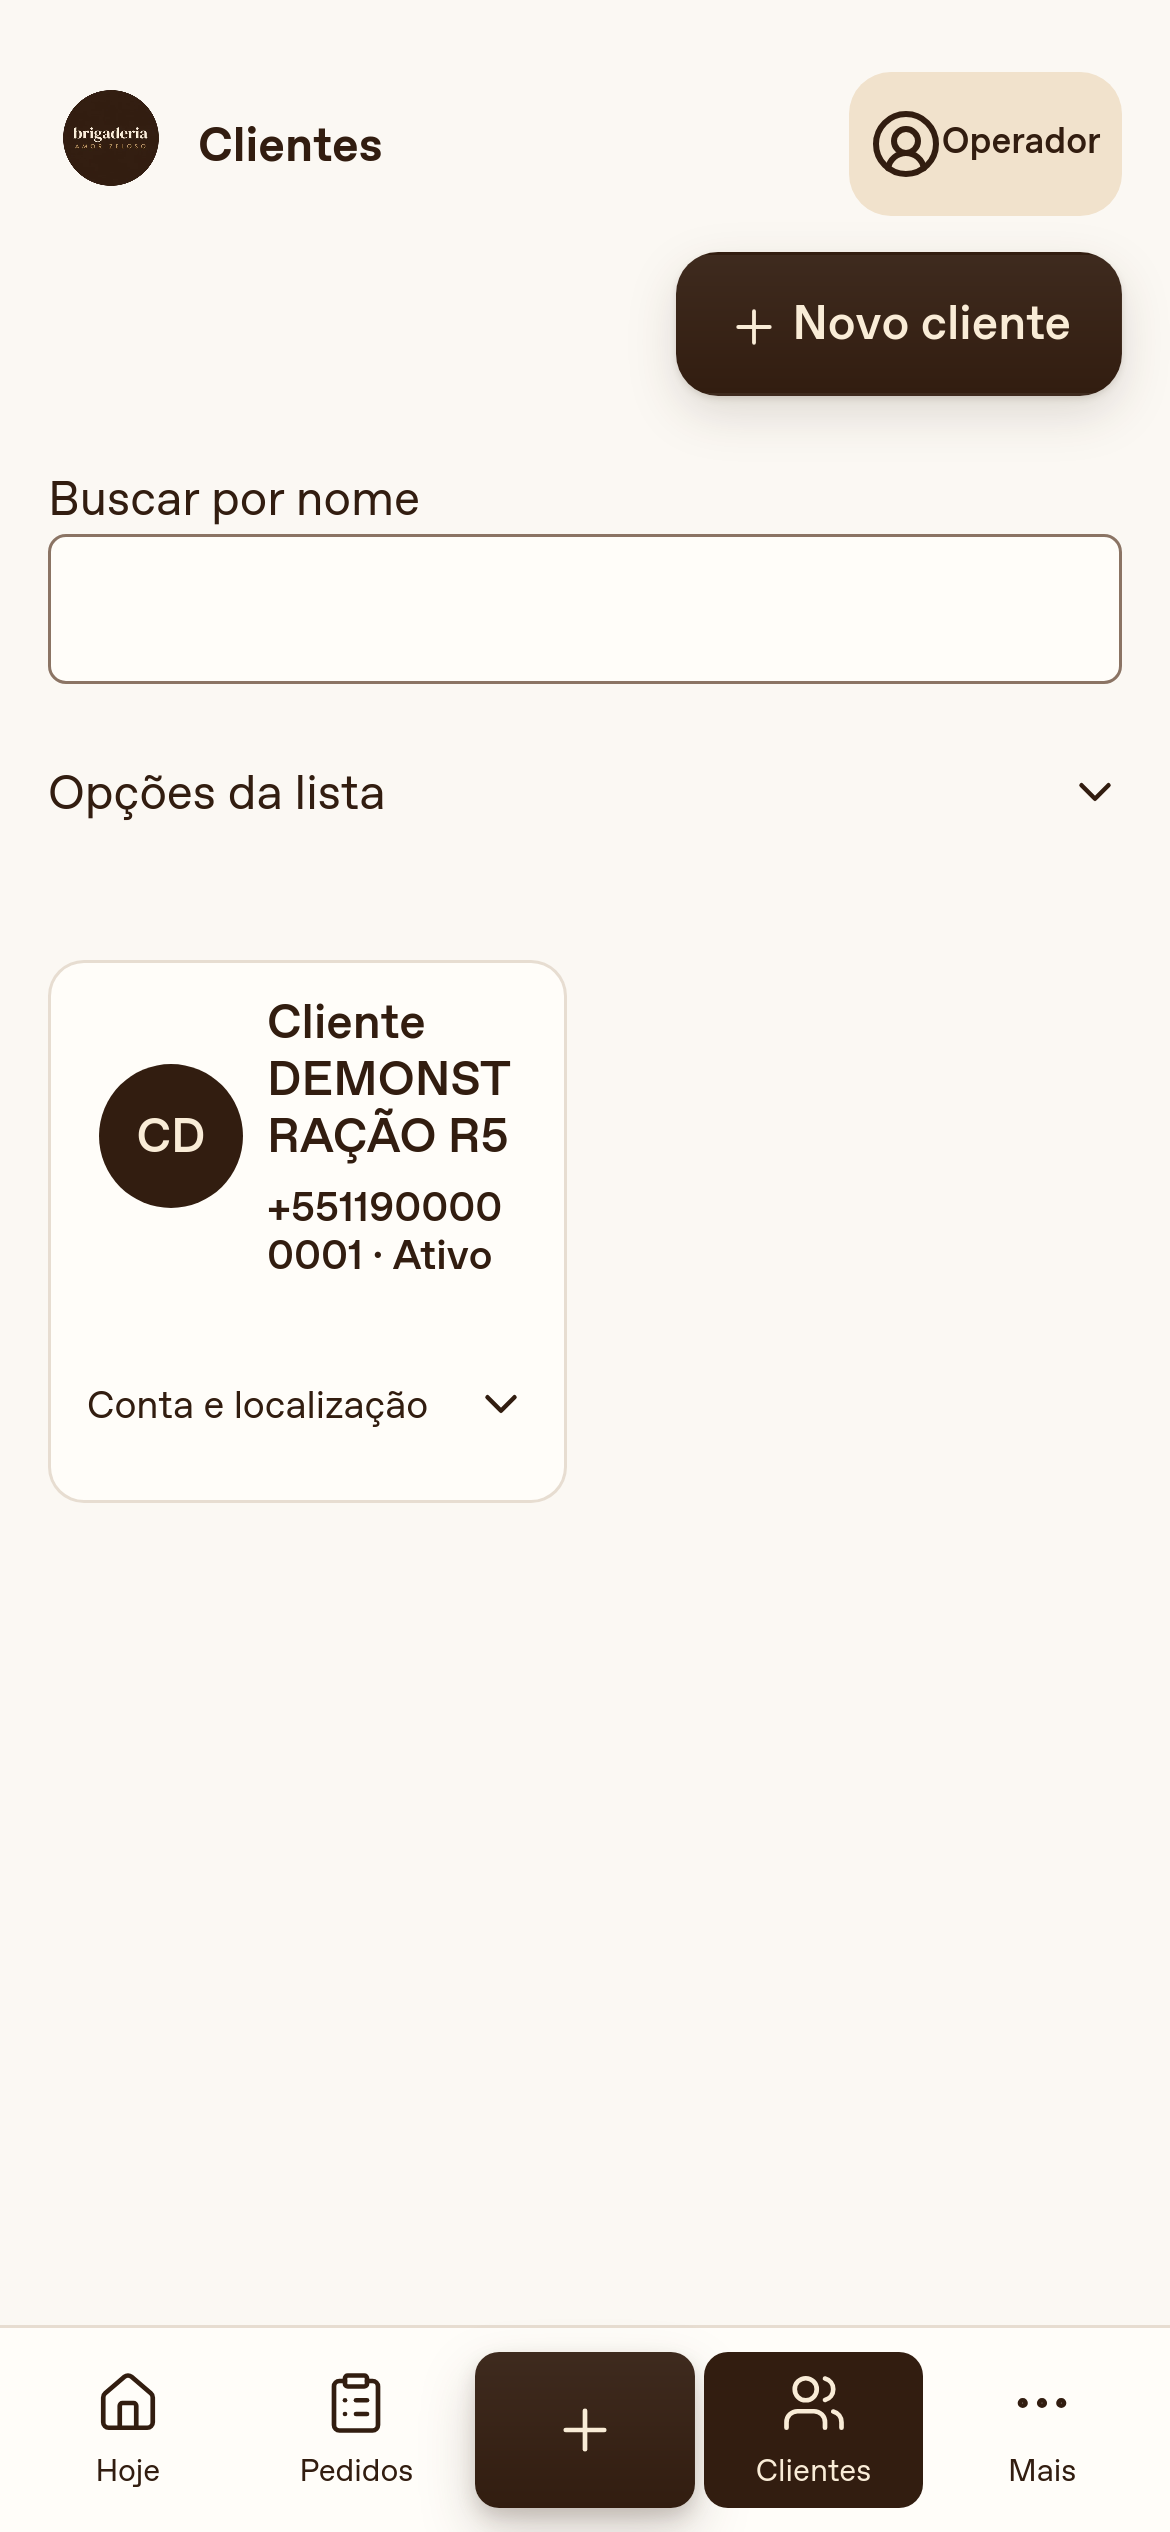
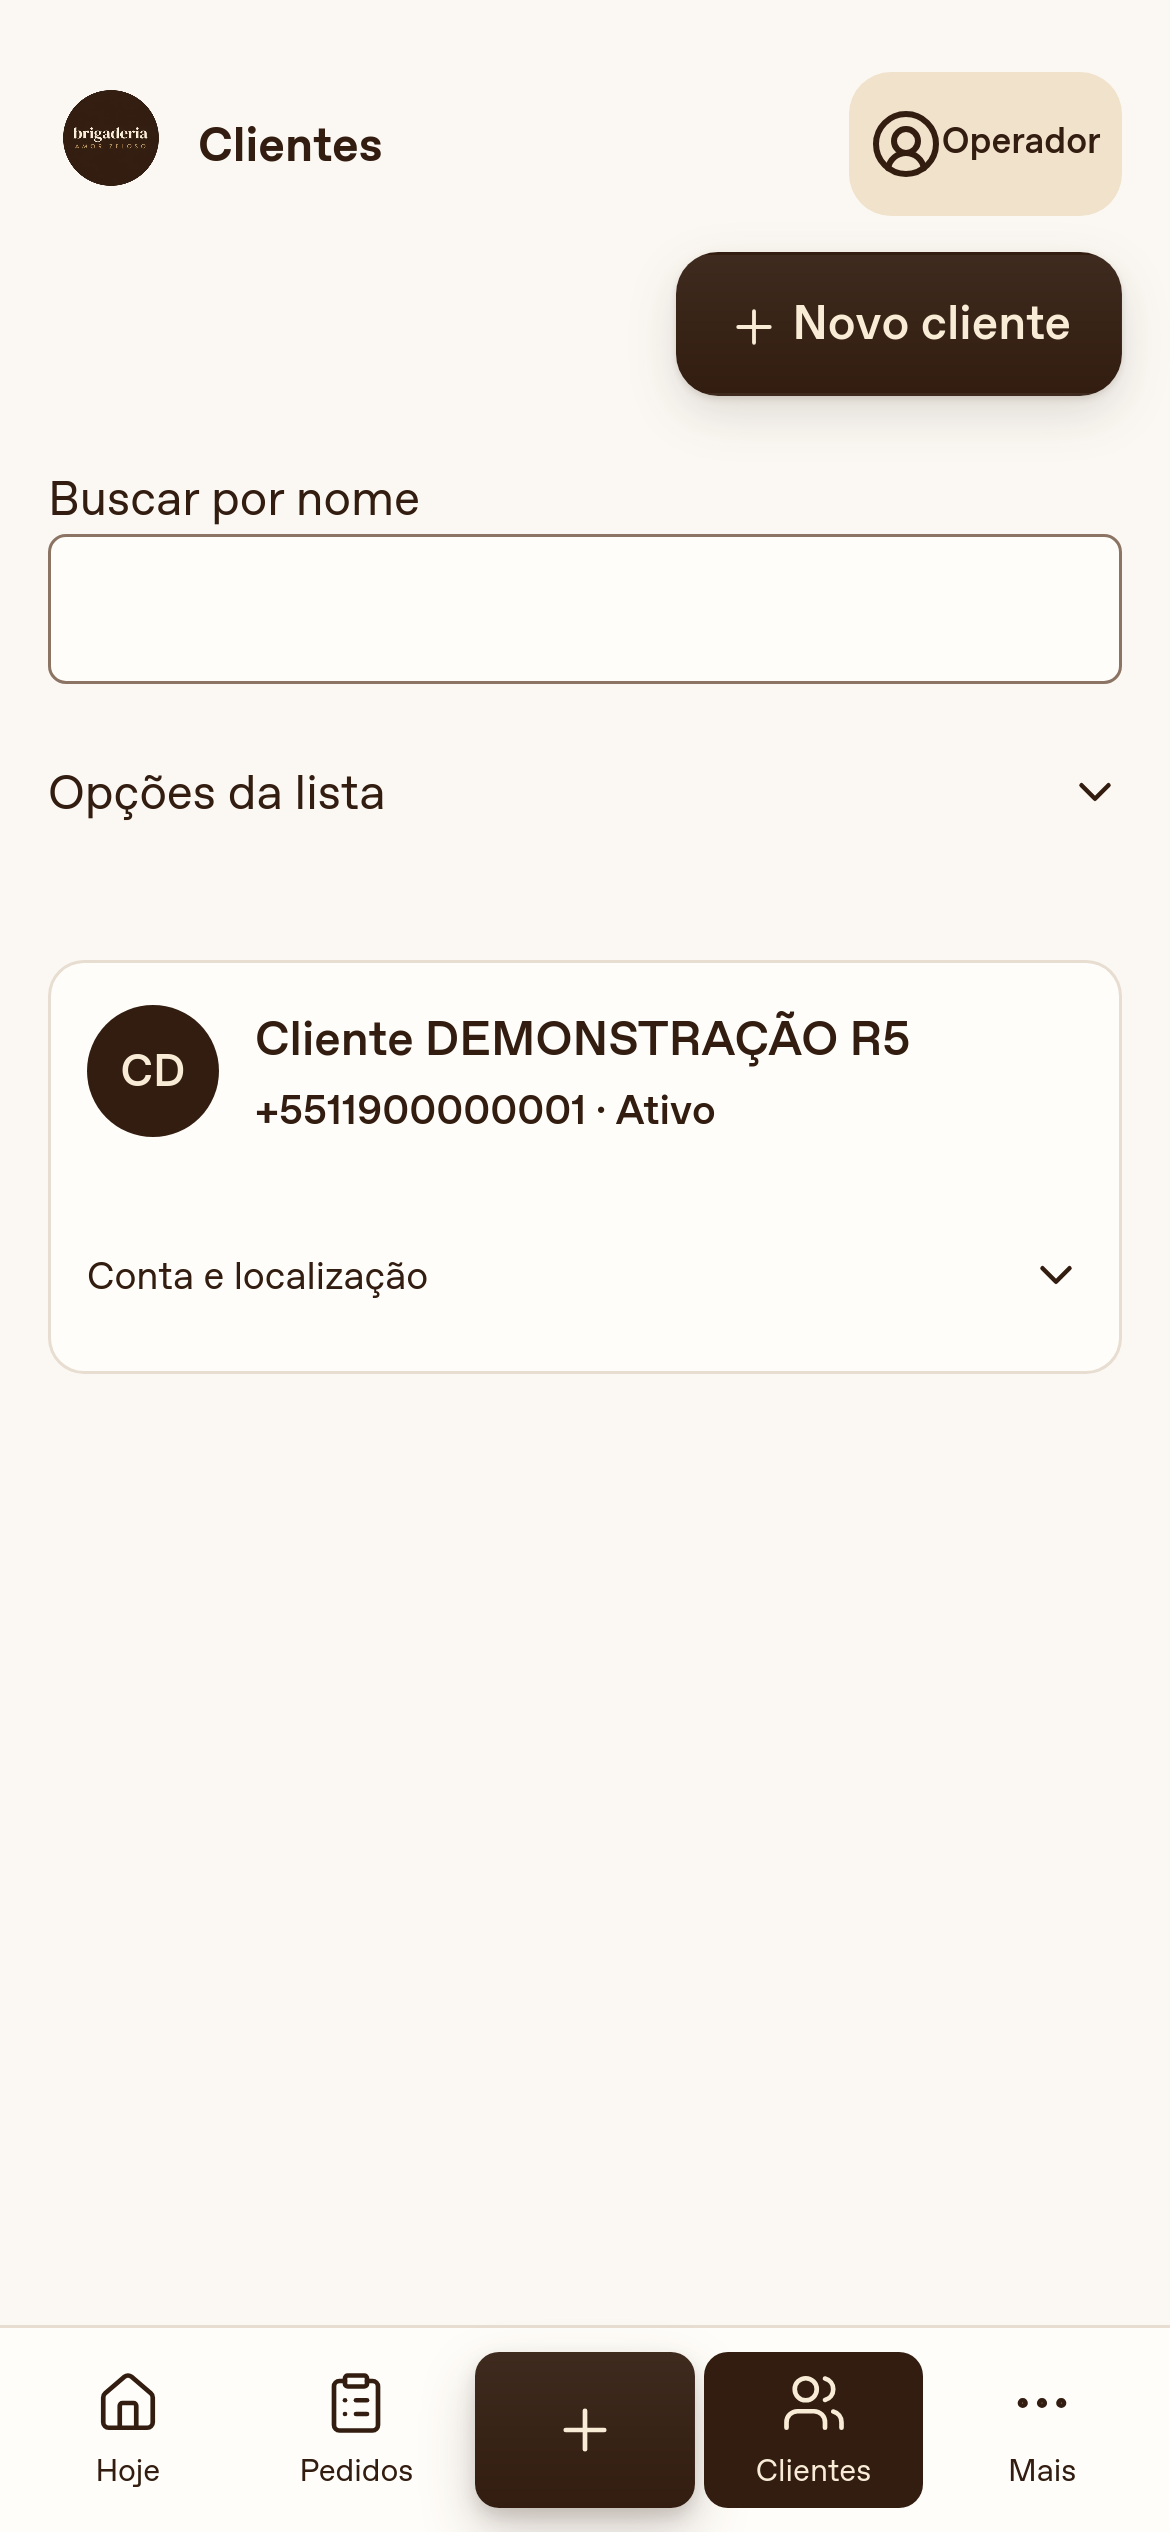
fix: use full-width customer cards on mobile (R8-4)

Changed region(s): [[0.0308, 0.3744, 0.7692, 0.5616], [0.4615, 0.5304, 0.4923, 0.5616]]

diff --git a/tests/e2e/review-r5-flows.spec.js b/tests/e2e/review-r5-flows.spec.js
@@ -98,6 +98,9 @@ test('R5 telas móveis com ações compartilhadas', async ({
       await capture(name);
       if (path === 'clientes') {
         await expect(p.getByRole('dialog')).toBeHidden();
+        const tile = await p.locator('.customer-edit').first().boundingBox();
+        expect(tile.width).toBeGreaterThan(340);
+        expect(tile.x + tile.width).toBeLessThanOrEqual(390);
         await expect(p.getByLabel('Buscar por nome')).toBeVisible();
         await expect(
           p.locator('summary:visible').first().locator('.disclosure-chevron'),

diff --git a/src/styles.css b/src/styles.css
@@ -1851,3 +1851,23 @@ details[open] > .disclosure-summary > .disclosure-chevron {
     transition: none;
   }
 }
+@media (max-width: 700px) {
+  .customer-tiles {
+    grid-template-columns: minmax(0, 1fr);
+  }
+  .customer-tile.az-button {
+    min-height: 72px;
+    padding: 12px;
+    gap: 12px;
+    overflow-wrap: normal;
+  }
+  .customer-tile > span:last-child {
+    min-width: 0;
+  }
+  .customer-tile .site-avatar,
+  .customer-tile .initial-avatar {
+    width: 44px;
+    height: 44px;
+    font-size: 15px;
+  }
+}

diff --git a/docs/colaboracao/CODEX_PARA_CLAUDE.md b/docs/colaboracao/CODEX_PARA_CLAUDE.md
@@ -119,6 +119,8 @@ Limitação: validação em navegador simulado, aparelho físico pendente.
 
 ## Histórico
 
+- **2026-11-02 — R8-4:** Cartões de clientes em uma coluna e largura total no celular, inclusive na escolha do pedido; avatar 44 px e nome sem quebra forçada. Desktop preservado. Build/tipagem e três E2E com medida de largura/limites da tela aprovados; capturas atualizadas. Próximo R8-5.
+
 - **2026-11-02 — R8-3:** DisclosureSummary compartilhado com ChevronDown Lucide; marcador nativo oculto inclusive no Safari, rotação e reduced-motion. Build/tipagem/lint e seis E2E de campo/fluxos aprovados (os três fluxos repetidos após ajustar o seletor ao summary visível). Capturas atualizadas. Próximo R8-4; nenhum dado/serviço remoto alterado.
 
 - **2026-11-02 — R8-2:** Clientes/Mais/Financeiro sem título visual repetido no celular; h1 semântico preservado para leitor de tela e desktop intacto. Build/tipagem e três E2E dos fluxos/capturas passaram. Produzido e testado localmente, sem operação Cloudflare. Próximo R8-3.
@@ -195,7 +197,7 @@ Arquivos/aceite: Today, DeliveryActions, Button e API Today (R8-1: cartão compa
 | R8-1          | Entregue (limites e testes no histórico).                      |
 | R8-2          | Entregue (limites e testes no histórico).                      |
 | R8-3          | Entregue (limites e testes no histórico).                      |
-| R8-4          | Pendente.                                                      |
+| R8-4          | Entregue (limites e testes no histórico).                      |
 | R8-5          | Pendente.                                                      |
 | R8-6          | Pendente.                                                      |
 | R8-7          | Pendente.                                                      |
